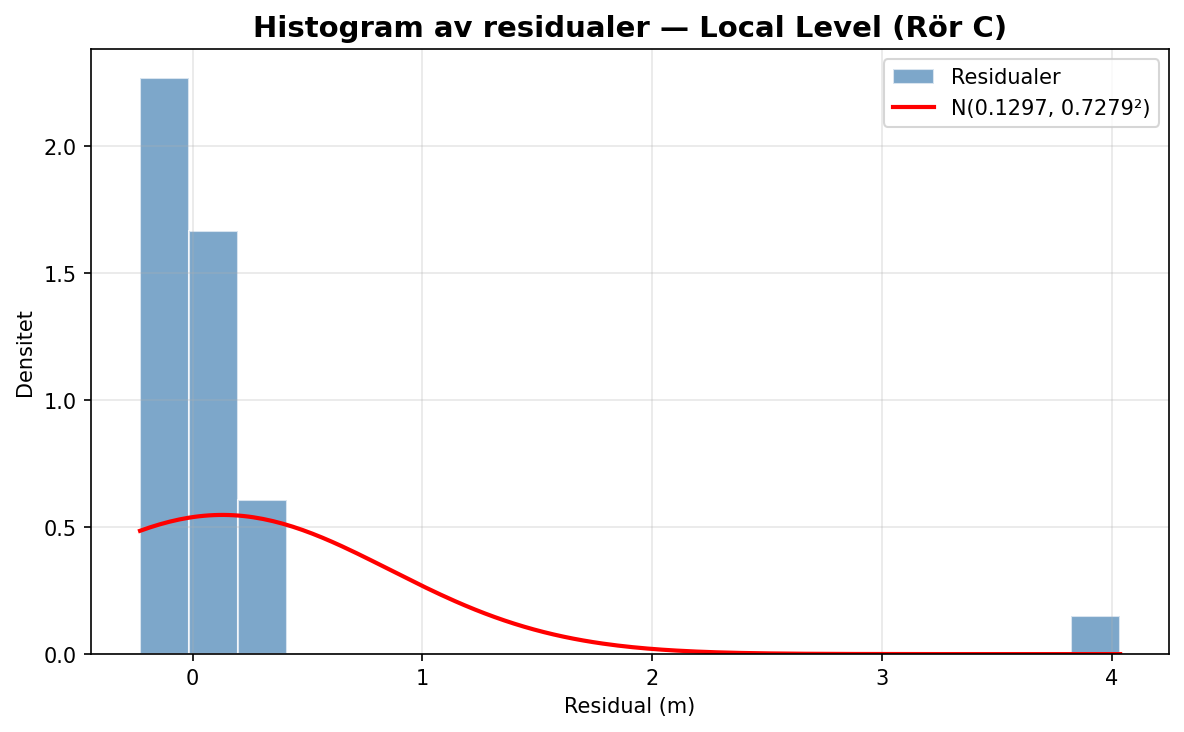
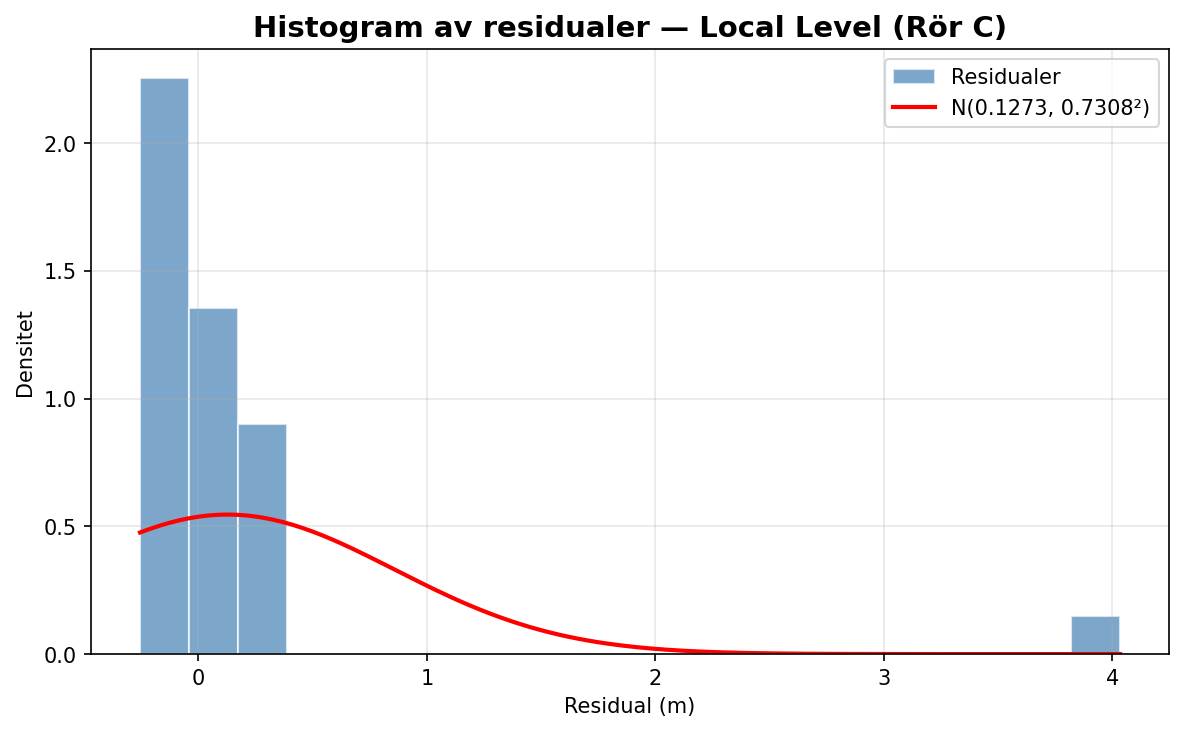
hårdkoda epsilon
hårdkoda epsilon testa också med ar men det blev inte bra

diff --git a/kandidatuppsats_endast_basror.py b/kandidatuppsats_endast_basror.py
@@ -48,9 +48,10 @@ except ImportError:
 
 class LocalLevel(MLEModel):
 
-    # Parametrar som MLE ska skatta: σ²_ε och σ²_η
-    start_params = [1.0, 1.0]
-    param_names = ["sigma2.irregular", "sigma2.level"]
+    # Endast σ²_η skattas via MLE; σ²_ε är hårdkodad till 0.1² = 0.01
+    start_params = [1.0]
+    param_names = ["sigma2.level"]
+    SIGMA2_EPS = 0.1**2  # = 0.01, fast observationsvarians
 
     def __init__(self, endog):
         super().__init__(endog, k_states=1)
@@ -64,11 +65,14 @@ class LocalLevel(MLEModel):
         # R = 1
         self["selection", 0, 0] = 1.0
 
+        # H = σ²_ε: hårdkodad
+        self["obs_cov", 0, 0] = self.SIGMA2_EPS
+
         # Diffus initiering, inget antagande om startvärde
         self.initialize_approximate_diffuse()
 
     def transform_params(self, params):
-        # Kvadrering säkerställer att varianserna alltid är positiva
+        # Kvadrering säkerställer att variansen alltid är positiv
         return params**2
 
     def untransform_params(self, params):
@@ -77,11 +81,8 @@ class LocalLevel(MLEModel):
     def update(self, params, **kwargs):
         params = super().update(params, **kwargs)
 
-        # H = σ²_ε: observationsbruset
-        self["obs_cov", 0, 0] = params[0]
-
         # Q = σ²_η: processbruset (hur mycket nivån rör sig)
-        self["state_cov", 0, 0] = params[1]
+        self["state_cov", 0, 0] = params[0]
 
 
 #får in alla filer på samma ställe som detta skript
@@ -179,13 +180,8 @@ def fit_model(y: pd.Series) -> dict:
     #variansen för smoothed nivån
     smoothed_level_var = results.smoothed_state_cov[0, 0, :]
 
-    # results.params innehåller de skattade parametrarna, så de görs om till en numpy arrey för enklare indexering
-    params = np.array(results.params)
-    # En lista med parameterna
-    param_names = list(results.param_names)
-    sigma2_eps = 0
-    if "sigma2.irregular" in param_names:
-        sigma2_eps = params[param_names.index("sigma2.irregular")]
+    # σ²_ε är hårdkodad i modellen
+    sigma2_eps = LocalLevel.SIGMA2_EPS
 
     # Beräknar 95%-konfidensintervall för den smoothed nivån
     z95 = sp_stats.norm.ppf(0.975) 
@@ -261,6 +257,8 @@ def evaluate_model(out: dict, station_id: str = "") -> dict:
 
     print(f"\n  DIAGNOSTIK: {station_id}")
     print(f"  {'-'*40}")
+    print(f"  {'σ²_ε (obs-brus)':<20} {LocalLevel.SIGMA2_EPS:.6f} (fast)")
+    print(f"  {'σ²_η (process-brus)':<20} {out['results'].params.iloc[0]:.6f}")
     print(f"  {'MAE':<20} {metrics['MAE']:.4f}")
     print(f"  {'RMSE':<20} {metrics['RMSE']:.4f}")
     print(f"  {'Durbin-Watson':<20} {metrics.get('Durbin-Watson', float('nan')):.4f}")
@@ -510,3 +508,6 @@ if __name__ == "__main__":
                 f"{m.get('Durbin-Watson', float('nan')):>8.4f}"
             )
         print("=" * 55)
+
+
+

diff --git a/check_params.py b/check_params.py
@@ -1,0 +1,14 @@
+import numpy as np, pandas as pd, sys
+from pathlib import Path
+sys.path.insert(0, str(Path(__file__).parent))
+from kandidatuppsats_endast_basror import load_base_station, detect_frequency, prepare_series, fit_model
+
+base_dir = Path(__file__).parent
+for f, name in [("22W102","Rör A"),("G1101","Rör B"),("17XX01U","Rör C")]:
+    base = load_base_station(base_dir / f"{f}.csv")
+    freq = detect_frequency(base)
+    y = prepare_series(base, freq)
+    out = fit_model(y)
+    p = np.array(out["results"].params)
+    pn = list(out["results"].param_names)
+    print(f"{name} ({f}): sigma2_eps={p[0]:.8f}, sigma2_eta={p[1]:.8f}")
